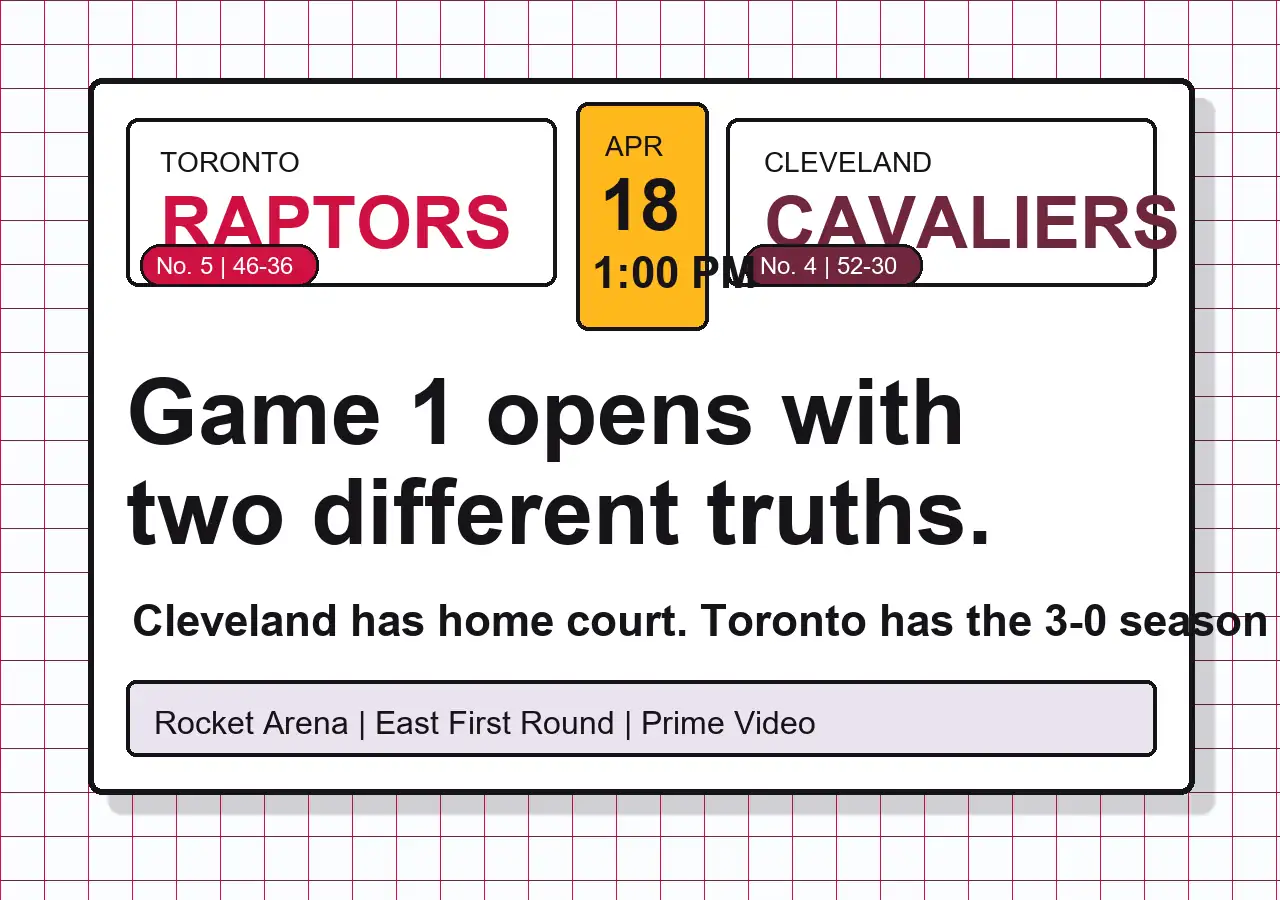
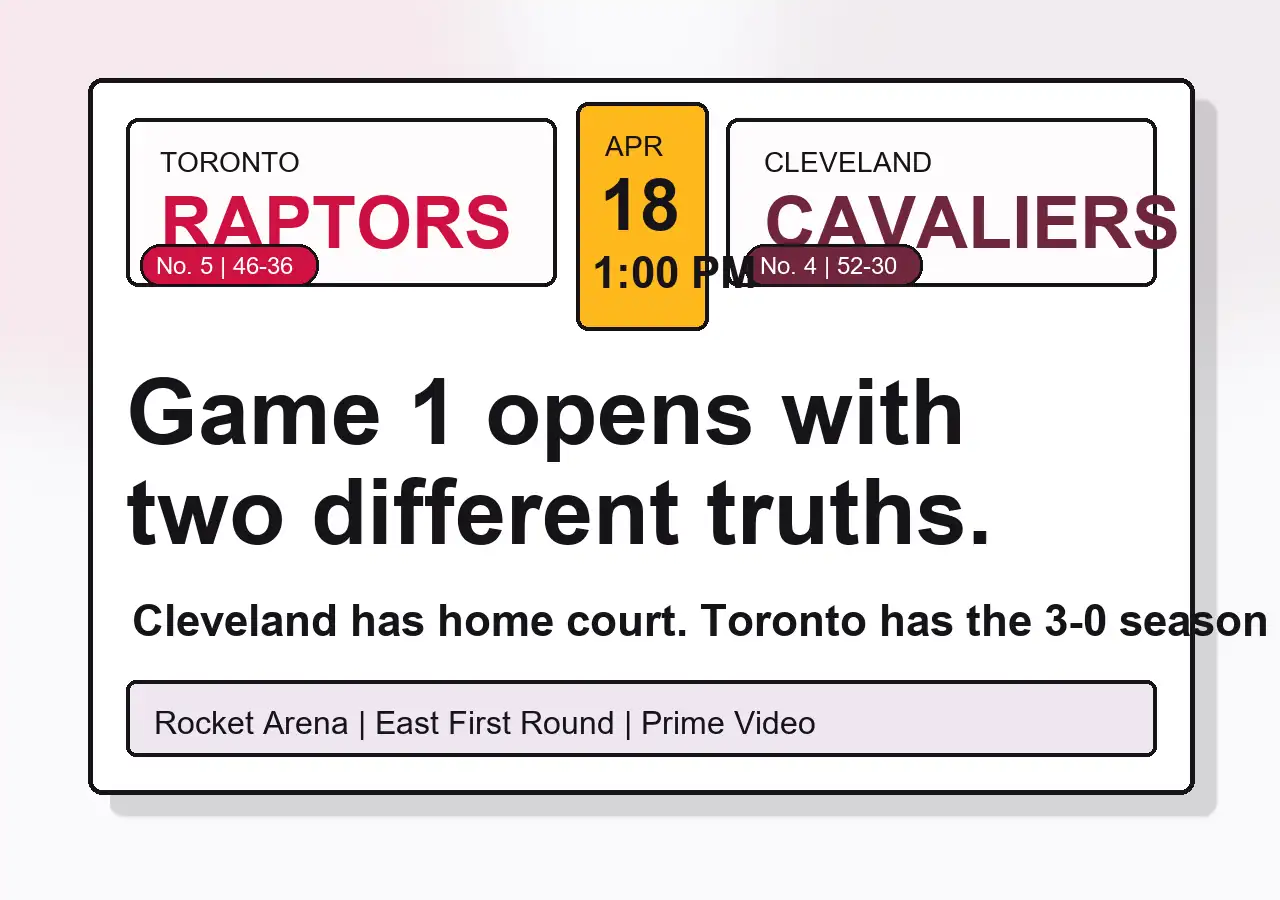
Remove box pattern from backgrounds

diff --git a/styles.css b/styles.css
@@ -27,9 +27,9 @@ html {
 body {
   margin: 0;
   background:
-    radial-gradient(circle at top left, rgba(206, 17, 65, 0.08), transparent 34%),
-    radial-gradient(circle at top right, rgba(111, 38, 61, 0.08), transparent 32%),
-    linear-gradient(180deg, #fff9fc, #f7f1f8 52%, #fbf8fb 100%);
+    radial-gradient(circle at top left, rgba(206, 17, 65, 0.05), transparent 30%),
+    radial-gradient(circle at top right, rgba(111, 38, 61, 0.05), transparent 28%),
+    linear-gradient(180deg, #fffafc, #faf5fa 56%, #fbf8fb 100%);
   color: var(--ink);
   font-family: Arial, Helvetica, sans-serif;
   line-height: 1.65;
